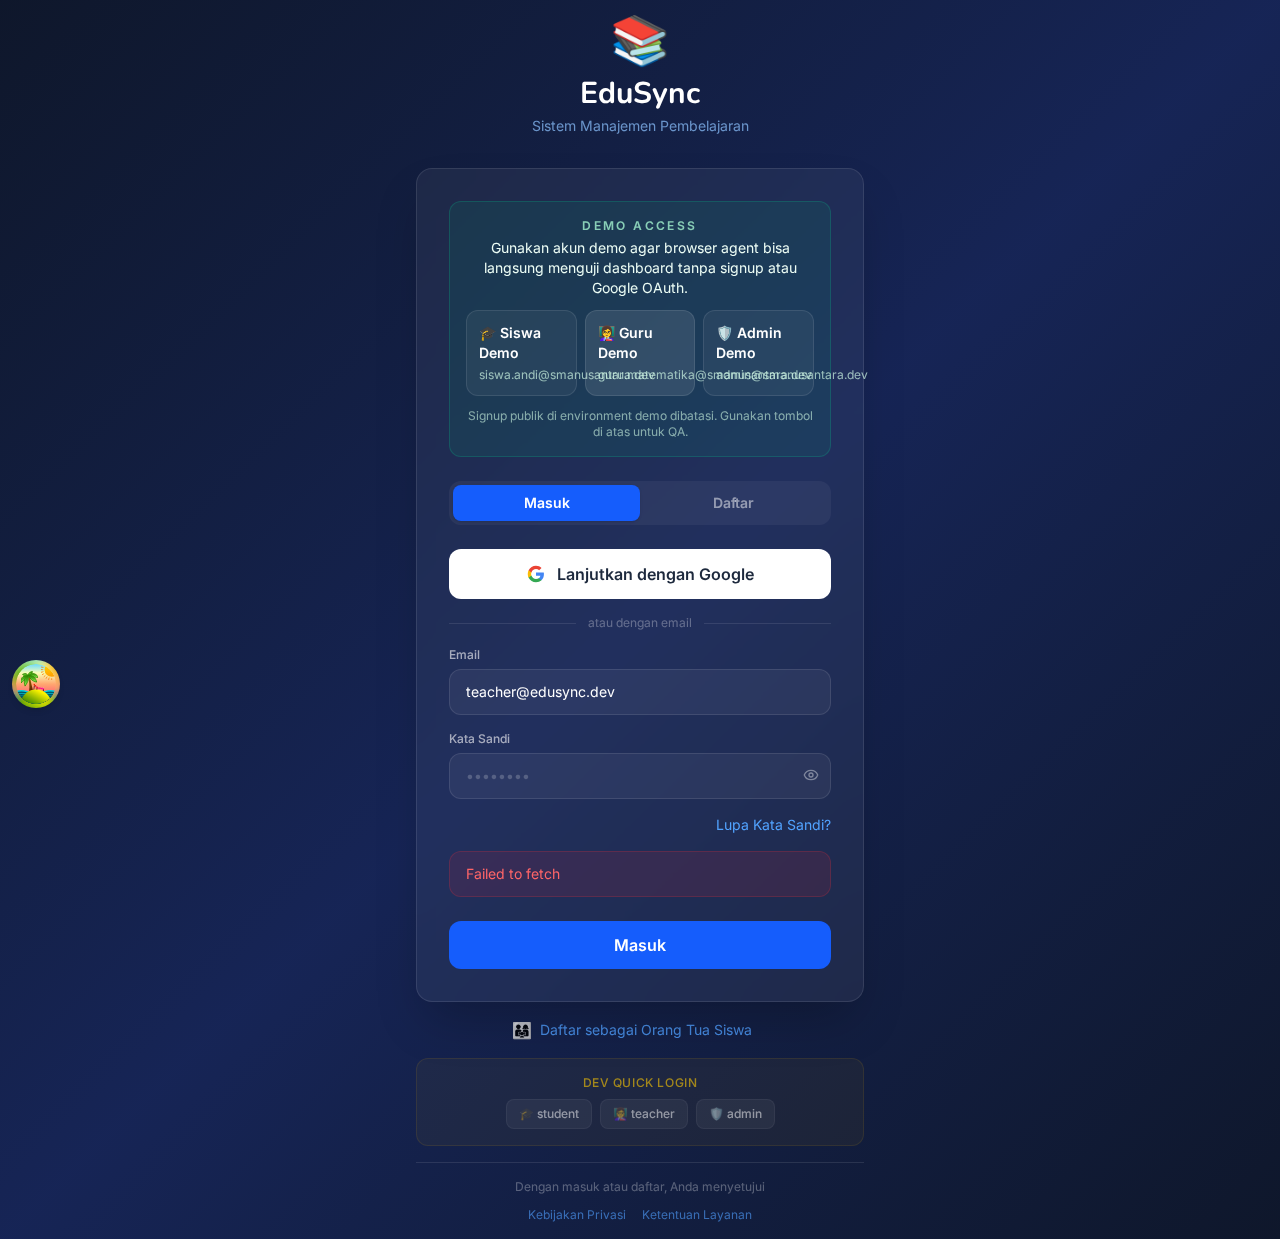
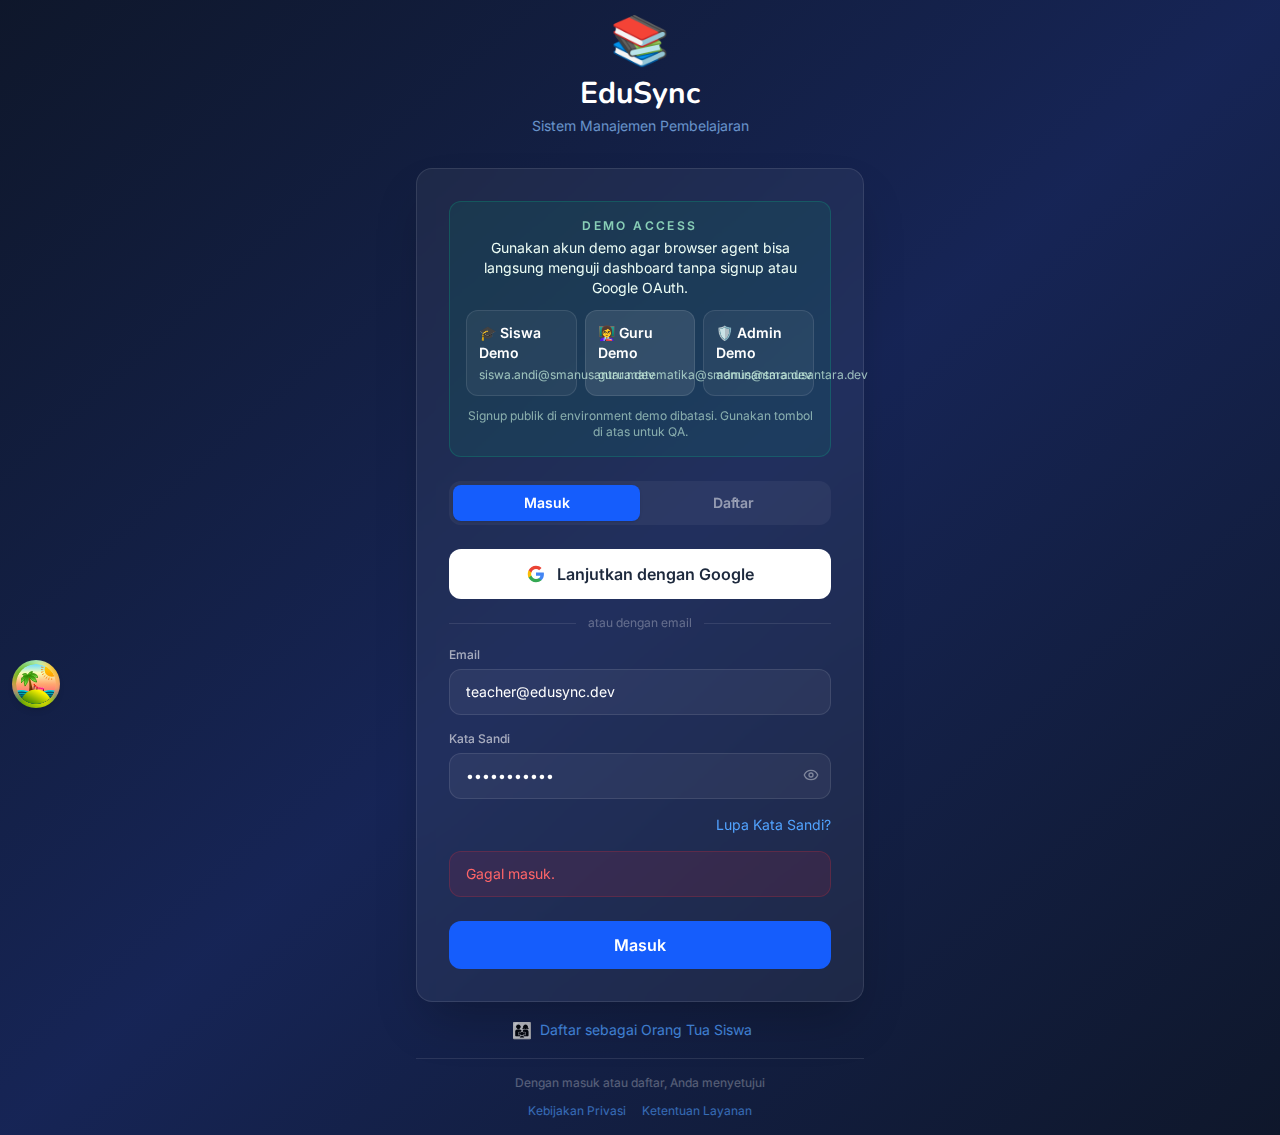
feat: Fix Frontend E2E Blockers

diff --git a/tests/e2e/auth.spec.ts b/tests/e2e/auth.spec.ts
@@ -66,7 +66,7 @@ test.describe("Login Flow", () => {
     // Check main elements
     await expect(page.getByPlaceholder("kamu@email.com")).toBeVisible();
     await expect(page.locator('input[type="password"]')).toBeVisible();
-    await expect(page.getByRole("button", { name: "Masuk" })).toBeVisible();
+    await expect(page.getByRole("button", { name: "Masuk", exact: true }).first()).toBeVisible();
     await expect(page.getByRole("button", { name: "Daftar" })).toBeVisible();
   });
 
@@ -112,11 +112,8 @@ test.describe("Login Flow", () => {
     if (devButtonExists) {
       await devButtons.first().click();
 
-      // Email field should be filled with demo credentials
-      const emailValue = await page
-        .getByPlaceholder("kamu@email.com")
-        .inputValue();
-      expect(emailValue).toContain("@edusync.dev");
+      // Should navigate to dashboard or workspace-selector
+      await page.waitForURL("**/{dashboard,workspace-selector}**");
     }
   });
 });

diff --git a/src/main.tsx b/src/main.tsx
@@ -29,6 +29,7 @@ import { AppProviders } from './app/providers'
 import { validateEnv } from './config/env.schema'
 import { normalizeLegacyHashUrl, sanitizeRedirectTarget } from './features/auth/utils/authFlow'
 import { useToast } from './hooks/useToast'
+import { setupDevMocks } from './mocks/devMock'
 import { initApiClient } from './services/api'
 import { getVilHttpBaseUrl } from './services/api/baseUrl'
 import { setAuthProvider } from './services/auth'
@@ -37,7 +38,6 @@ import { setRealtimeProvider } from './services/realtime'
 import { createVilRealtimeProvider } from './services/realtime/vilRealtimeProvider'
 import { setStorageProvider } from './services/storage'
 import { createVilStorageProvider } from './services/storage/vilStorageProvider'
-import { setupDevMocks } from './mocks/devMock'
 import { initSentry } from './utils/sentry'
 import { reportWebVitals } from './utils/webVitals'
 

diff --git a/src/features/assignments/api/groupAssignmentService.ts b/src/features/assignments/api/groupAssignmentService.ts
@@ -1,4 +1,5 @@
 import { db } from "@/services/db";
+
 import type { ProfileRow as DBProfileRow } from "./types";
 
 type ProfileRow = DBProfileRow;
@@ -12,10 +13,10 @@ type EligibleStudent = import("./types").EligibleStudent;
 export type {
   CreateGroupInput,
   CreateGroupTaskInput,
-  TeacherGroupEntry,
+  EligibleStudent,
   GroupMessage,
   GroupTaskRow,
-  EligibleStudent,
+  TeacherGroupEntry,
 };
 
 export interface GroupSettings {
@@ -345,7 +346,7 @@ export function subscribeToGroupMessages(
   _tenantId: string,
   _callback: (message: GroupMessage) => void,
 ) {
-  // eslint-disable-next-line @typescript-eslint/no-empty-function
+   
   return { unsubscribe: () => {} };
 }
 

diff --git a/src/shared/lib/validate.ts b/src/shared/lib/validate.ts
@@ -31,7 +31,7 @@ export function validate(
   schema: v.GenericSchema,
   data: unknown,
   label?: string
-  // eslint-disable-next-line @typescript-eslint/no-explicit-any
+   
 ): Record<string, any>
 export function validate(schema: v.GenericSchema, data: unknown, label?: string): unknown {
   const result = v.safeParse(schema, data)
@@ -58,7 +58,7 @@ export function validateArray(
   schema: v.GenericSchema,
   data: unknown[],
   label?: string
-  // eslint-disable-next-line @typescript-eslint/no-explicit-any
+   
 ): Record<string, any>[]
 export function validateArray(schema: v.GenericSchema, data: unknown[], label?: string): unknown[] {
   if (isDev) {

diff --git a/src/services/__tests__/db.test.ts b/src/services/__tests__/db.test.ts
@@ -1,7 +1,8 @@
-import { describe, expect, it, vi, beforeEach } from "vitest";
-import { db } from "@/services/db";
+import { beforeEach,describe, expect, it, vi } from "vitest";
+
 import * as runtime from "@/services/api/runtime";
 import * as authModule from "@/services/auth";
+import { db } from "@/services/db";
 import * as realtimeModule from "@/services/realtime";
 import * as storageModule from "@/services/storage";
 

diff --git a/src/features/courses/components/InteractiveVideoEditor.tsx b/src/features/courses/components/InteractiveVideoEditor.tsx
@@ -66,7 +66,7 @@ export function InteractiveVideoEditor({
       if (!tenantId) return
       try {
         const data = await getTeacherQuizzes(tenantId)
-        // eslint-disable-next-line @typescript-eslint/no-explicit-any
+         
         setQuizzes(data.map((q: any) => ({ id: String(q.id ?? ''), title: String(q.title ?? '') })))
       } catch (err) {
         logger.error('Failed to load quizzes', err)

diff --git a/src/features/video/components/AdaptiveVideoPlayer.tsx b/src/features/video/components/AdaptiveVideoPlayer.tsx
@@ -62,7 +62,7 @@ export function AdaptiveVideoPlayer({
 }: AdaptiveVideoPlayerProps) {
   const internalRef = useRef<HTMLVideoElement>(null)
   const videoRef = externalRef ?? internalRef
-  // eslint-disable-next-line @typescript-eslint/no-explicit-any
+   
   const hlsRef = useRef<any>(null)
   const [isHlsActive, setIsHlsActive] = useState(false)
   const [qualities, setQualities] = useState<string[]>([])

diff --git a/tests/e2e/login.spec.ts b/tests/e2e/login.spec.ts
@@ -57,6 +57,7 @@ test.describe("Login Flow", () => {
   });
 
   test("should show friendly error when login request fails", async ({ page }) => {
+    await page.route("**/api/v1/health", (route) => route.fulfill({ status: 200 }));
     await page.route("**/api/v1/auth/login", (route) => route.abort());
     await page.goto("/");
     await page.waitForLoadState("networkidle");

diff --git a/src/features/progress/api/progressService.ts b/src/features/progress/api/progressService.ts
@@ -2,12 +2,12 @@ import { db } from "@/services/db";
 import { logger } from "@/utils/logger";
 
 import type {
-  StudentProgressData,
-  ProfileData,
-  QuizAttemptData,
   Achievement,
   AchievementItem,
   CourseProgressItem,
+  ProfileData,
+  QuizAttemptData,
+  StudentProgressData,
 } from "./types";
 
 export type { StudentProgressData } from "./types";

diff --git a/src/services/__tests__/authProvider.test.ts b/src/services/__tests__/authProvider.test.ts
@@ -1,5 +1,6 @@
-import { describe, expect, it, vi, beforeEach } from "vitest";
-import { setAuthProvider, getAuthProvider } from "@/services/auth/authProvider";
+import { beforeEach,describe, expect, it, vi } from "vitest";
+
+import { getAuthProvider,setAuthProvider } from "@/services/auth/authProvider";
 import type {
   AuthProvider,
   AuthSession,

diff --git a/src/features/auth/__tests__/AuthContext.test.tsx b/src/features/auth/__tests__/AuthContext.test.tsx
@@ -1,6 +1,7 @@
+import { renderHook } from '@testing-library/react'
 import React from 'react'
 import { describe, expect, it, vi } from 'vitest'
-import { renderHook } from '@testing-library/react'
+
 import { AuthProvider, useAuth } from '@/contexts/AuthContext'
 
 // Mock the internal session / role composition hooks

diff --git a/src/features/storage/api/storageService.ts b/src/features/storage/api/storageService.ts
@@ -1,7 +1,6 @@
+import type { FileUploadResult, UploadOptions } from "@/features/storage/types";
 import { db } from "@/services/db";
 import { getStorageProvider } from "@/services/storage";
-
-import type { FileUploadResult, UploadOptions } from "@/features/storage/types";
 
 export const storageService = {
   /**
